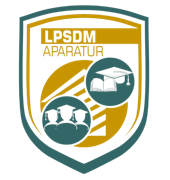
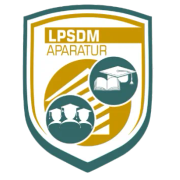
fix: lembaga in profile page

Changed region(s): [[0.0882, 0.0, 0.8824, 0.9722], [0.2647, 0.4167, 0.2941, 0.4722], [0.2941, 0.3889, 0.3235, 0.4167]]

diff --git a/app/(public)/profil/page.tsx b/app/(public)/profil/page.tsx
@@ -40,6 +40,7 @@ export default async function ProfilPage() {
   const profile = await institutionProfileService.get()
   if (!profile) notFound()
   const lembagaBody = profile.lembagaBody.trim()
+  const lembagaImage = profile.lembagaImage.trim()
 
   return (
     <>
@@ -49,36 +50,30 @@ export default async function ProfilPage() {
         description={profile.heroDescription}
       />
 
-      {lembagaBody ? (
-        <section className="bg-[var(--sa-canvas)] py-8 lg:py-10">
-          <div className="mx-auto grid max-w-[1280px] items-center gap-6 px-4 sm:px-6 lg:grid-cols-2 lg:px-8">
-            <div className="relative h-64 overflow-hidden rounded-3xl sm:h-80">
-              <Image
-                src={profile.lembagaImage}
-                alt="Ilustrasi aparatur peserta program"
-                fill
-                className="object-cover"
-                sizes="(min-width: 1024px) 36rem, 100vw"
-              />
-            </div>
-            <div>
-              <GoldIcon icon={Landmark} />
-              <h2 className="mt-4 text-3xl font-semibold tracking-tight text-[var(--sa-navy)]">Lembaga</h2>
-              <p className="mt-4 text-base leading-7 text-[var(--sa-muted)]">{lembagaBody}</p>
-            </div>
-          </div>
-        </section>
-      ) : null}
-
       <section className="bg-white py-8 lg:py-10">
         <div className="mx-auto max-w-[1280px] px-4 sm:px-6 lg:px-8">
-          <h2 className="text-3xl font-semibold tracking-tight text-[var(--sa-navy)]">Latar belakang</h2>
-          <div className="mt-6 max-w-3xl space-y-4 text-base leading-7 text-[var(--sa-muted)]">
-            {profile.latarBelakangParagraphs.map((paragraph) => (
-              <p key={paragraph}>{paragraph}</p>
-            ))}
+          <div className="grid items-stretch gap-6 lg:grid-cols-2">
+            {lembagaImage ? (
+              <div className="relative min-h-64 overflow-hidden rounded-3xl sm:min-h-80">
+                <Image
+                  src={lembagaImage}
+                  alt="Ilustrasi aparatur peserta program"
+                  fill
+                  className="object-cover"
+                  sizes="(min-width: 1024px) 36rem, 100vw"
+                />
+              </div>
+            ) : null}
+            <div>
+              <h2 className="text-3xl font-semibold tracking-tight text-[var(--sa-navy)]">Latar belakang</h2>
+              <div className="mt-4 space-y-4 text-base leading-7 text-[var(--sa-muted)]">
+                {profile.latarBelakangParagraphs.map((paragraph) => (
+                  <p key={paragraph}>{paragraph}</p>
+                ))}
+              </div>
+            </div>
           </div>
-          <ul className="mt-6 grid gap-5 sm:grid-cols-3">
+          <ul className="mt-8 grid gap-5 sm:grid-cols-3">
             {profile.latarBelakangPoints.map((item, index) => (
               <li key={item.title} className="flex gap-4">
                 <GoldIcon icon={LATAR_ICONS[index % LATAR_ICONS.length]} size="sm" />
@@ -89,6 +84,13 @@ export default async function ProfilPage() {
               </li>
             ))}
           </ul>
+          {lembagaBody ? (
+            <div className="mt-8">
+              <GoldIcon icon={Landmark} />
+              <h2 className="mt-4 text-3xl font-semibold tracking-tight text-[var(--sa-navy)]">Lembaga</h2>
+              <p className="mt-4 text-base leading-7 text-[var(--sa-muted)]">{lembagaBody}</p>
+            </div>
+          ) : null}
         </div>
       </section>
 

diff --git a/components/public/partners-section.tsx b/components/public/partners-section.tsx
@@ -1,5 +1,5 @@
 import Image from "next/image"
-import type { ReactNode } from "react"
+import type { CSSProperties, ReactNode } from "react"
 
 import { SectionHeader } from "@/components/public/section-header"
 import { homeContent } from "@/data/home"
@@ -23,6 +23,9 @@ function LogoTrack<T extends { name: string }>({
   labelOf?: (item: T) => string
 }) {
   const loop = repeat(items, 4)
+  // Putaran lebih lama daripada jumlah logo, supaya laju pita tetap sama
+  // meski jumlah universitas dan mitra berbeda.
+  const duration = `${Math.max(items.length, 1) * 30}s`
 
   return (
     <div
@@ -31,6 +34,7 @@ function LogoTrack<T extends { name: string }>({
       aria-label={label}
     >
       <div
+        style={{ "--marquee-duration": duration } as CSSProperties}
         className={
           direction === "left"
             ? "flex w-max animate-marquee motion-reduce:hidden"

diff --git a/components/layout/public-navbar.tsx b/components/layout/public-navbar.tsx
@@ -98,7 +98,7 @@ export function PublicNavbar({
         <div className="mx-auto flex h-16 max-w-[1280px] items-center gap-3 rounded-full bg-white px-2 text-[var(--sa-navy)] shadow-[0_10px_30px_rgba(31,44,114,0.14)] sm:px-3">
           <Link href={ROUTES.home} className="inline-flex cursor-pointer items-center pl-1">
             <Image
-              src="/brand/logo-lpsdm.png"
+              src="/brand/logo-lpsdm.webp"
               alt="LPSDM Aparatur"
               width={36}
               height={48}

diff --git a/app/(public)/page.tsx b/app/(public)/page.tsx
@@ -113,7 +113,7 @@ export default async function Home() {
                 href={ROUTES.profil}
                 className="mt-5 inline-flex h-12 cursor-pointer items-center gap-2 border-b-2 border-[var(--sa-gold)] text-sm font-semibold text-[var(--sa-navy)]"
               >
-                Profil program
+                Profil Program
                 <ArrowRight className="size-4" />
               </Link>
             </div>

diff --git a/app/layout.tsx b/app/layout.tsx
@@ -41,10 +41,7 @@ const plusJakartaSans = Plus_Jakarta_Sans({
 export const metadata: Metadata = {
   metadataBase: new URL(getSiteUrl()),
   icons: {
-    icon: [
-      { url: "/brand/logo-lpsdm.png", type: "image/png" },
-      { url: "/icon.png", type: "image/png" },
-    ],
+    icon: [{ url: "/icon.png", type: "image/png" }],
     apple: [{ url: "/apple-icon.png", type: "image/png" }],
   },
 }

diff --git a/app/globals.css b/app/globals.css
@@ -292,11 +292,11 @@ html:has(.admin-font) .font-sans {
 }
 
 .animate-marquee {
-  animation: marquee 42s linear infinite;
+  animation: marquee var(--marquee-duration, 90s) linear infinite;
 }
 
 .animate-marquee-reverse {
-  animation: marquee 42s linear infinite reverse;
+  animation: marquee var(--marquee-duration, 90s) linear infinite reverse;
 }
 
 @media (prefers-reduced-motion: reduce) {

diff --git a/components/layout/public-footer.tsx b/components/layout/public-footer.tsx
@@ -121,7 +121,7 @@ export async function PublicFooter() {
             className="relative block size-20 shrink-0 cursor-pointer"
           >
             <Image
-              src="/brand/logo-lpsdm.png"
+              src="/brand/logo-lpsdm.webp"
               alt="LPSDM Aparatur"
               fill
               sizes="80px"
